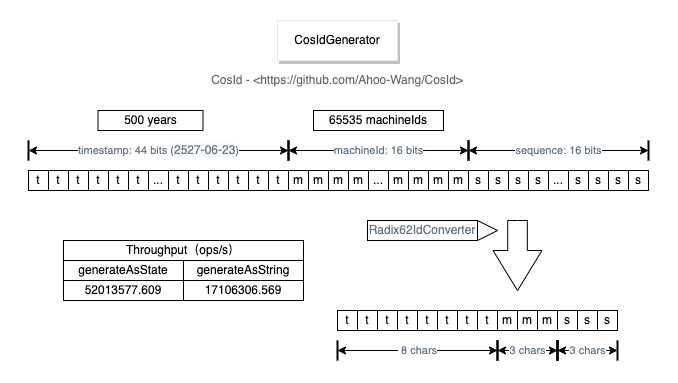
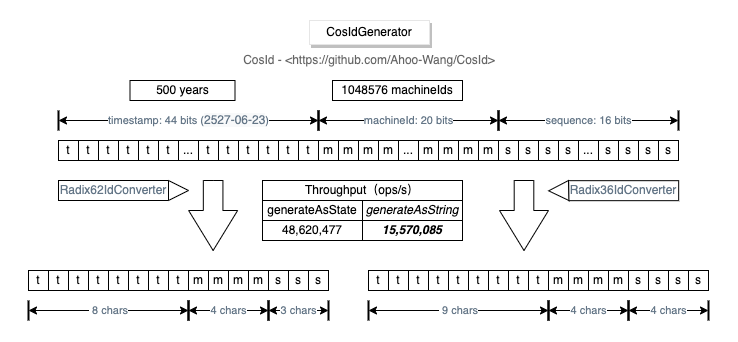
add `Radix36CosIdGenerator`

diff --git a/cosid-core/src/main/java/me/ahoo/cosid/cosid/RadixCosIdGenerator.java b/cosid-core/src/main/java/me/ahoo/cosid/cosid/RadixCosIdGenerator.java
@@ -1,0 +1,108 @@
+/*
+ * Copyright [2021-present] [ahoo wang <ahoowang@qq.com> (https://github.com/Ahoo-Wang)].
+ * Licensed under the Apache License, Version 2.0 (the "License");
+ * you may not use this file except in compliance with the License.
+ * You may obtain a copy of the License at
+ *      http://www.apache.org/licenses/LICENSE-2.0
+ * Unless required by applicable law or agreed to in writing, software
+ * distributed under the License is distributed on an "AS IS" BASIS,
+ * WITHOUT WARRANTIES OR CONDITIONS OF ANY KIND, either express or implied.
+ * See the License for the specific language governing permissions and
+ * limitations under the License.
+ */
+
+package me.ahoo.cosid.cosid;
+
+import me.ahoo.cosid.snowflake.exception.ClockBackwardsException;
+import me.ahoo.cosid.snowflake.exception.TimestampOverflowException;
+
+import com.google.common.annotations.Beta;
+import com.google.common.base.Strings;
+
+@Beta
+public class RadixCosIdGenerator implements CosIdGenerator {
+    public static final int DEFAULT_TIMESTAMP_BIT = 44;
+    public static final int DEFAULT_MACHINE_BIT = 20;
+    public static final int DEFAULT_SEQUENCE_BIT = 16;
+    public static final int DEFAULT_SEQUENCE_RESET_THRESHOLD = ~(-1 << (DEFAULT_SEQUENCE_BIT - 1));
+    
+    private final long maxTimestamp;
+    private final int maxMachine;
+    private final int maxSequence;
+    private final int sequenceResetThreshold;
+    
+    private final int machineId;
+    private int sequence = 0;
+    private long lastTimestamp = -1L;
+    
+    private final CosIdIdStateParser stateParser;
+    
+    public RadixCosIdGenerator(int timestampBit,
+                               int machineIdBit,
+                               int sequenceBit,
+                               int machineId,
+                               int sequenceResetThreshold,
+                               CosIdIdStateParser stateParser) {
+        this.maxTimestamp = ~(-1L << timestampBit);
+        this.maxMachine = ~(-1 << machineIdBit);
+        this.maxSequence = ~(-1 << sequenceBit);
+        this.sequenceResetThreshold = sequenceResetThreshold;
+        if (machineId > this.maxMachine || machineId < 0) {
+            throw new IllegalArgumentException(Strings.lenientFormat("machineId can't be greater than maxMachine[%s] or less than 0 .", maxMachine));
+        }
+        this.machineId = machineId;
+        this.stateParser = stateParser;
+    }
+    
+    @Override
+    public long getLastTimestamp() {
+        return lastTimestamp;
+    }
+    
+    @Override
+    public CosIdIdStateParser getStateParser() {
+        return stateParser;
+    }
+    
+    private long nextTime() {
+        long time = System.currentTimeMillis();
+        while (time <= lastTimestamp) {
+            time = System.currentTimeMillis();
+        }
+        return time;
+    }
+    
+    public synchronized CosIdState generateAsState() {
+        long currentTimestamp = System.currentTimeMillis();
+        if (currentTimestamp < lastTimestamp) {
+            throw new ClockBackwardsException(lastTimestamp, currentTimestamp);
+        }
+        
+        //region Reset sequence based on sequence reset threshold,Optimize the problem of uneven sharding.
+        
+        if (currentTimestamp > lastTimestamp
+            && sequence >= sequenceResetThreshold) {
+            sequence = 0;
+        }
+        
+        sequence = (sequence + 1) & maxSequence;
+        
+        if (sequence == 0) {
+            currentTimestamp = nextTime();
+        }
+        
+        //endregion
+        
+        if (currentTimestamp > maxTimestamp) {
+            throw new TimestampOverflowException(0, currentTimestamp, maxTimestamp);
+        }
+        lastTimestamp = currentTimestamp;
+        return new CosIdState(lastTimestamp, machineId, sequence);
+    }
+    
+    @Override
+    public String generateAsString() {
+        CosIdState state = generateAsState();
+        return stateParser.asString(state);
+    }
+}

diff --git a/cosid-core/src/test/java/me/ahoo/cosid/cosid/Radix36CosIdGeneratorTest.java b/cosid-core/src/test/java/me/ahoo/cosid/cosid/Radix36CosIdGeneratorTest.java
@@ -13,8 +13,11 @@
 
 package me.ahoo.cosid.cosid;
 
-import static me.ahoo.cosid.cosid.Radix62CosIdGenerator.*;
-import static org.hamcrest.MatcherAssert.assertThat;
+import static me.ahoo.cosid.cosid.Radix36CosIdGenerator.DEFAULT_MACHINE_BIT;
+import static me.ahoo.cosid.cosid.Radix36CosIdGenerator.DEFAULT_SEQUENCE_BIT;
+import static me.ahoo.cosid.cosid.Radix36CosIdGenerator.DEFAULT_TIMESTAMP_BIT;
+import static org.junit.jupiter.api.Assertions.*;
+import static org.hamcrest.MatcherAssert.*;
 import static org.hamcrest.Matchers.*;
 
 import me.ahoo.cosid.test.ConcurrentGenerateStingSpec;
@@ -25,30 +28,30 @@ import org.junit.jupiter.api.Test;
 import java.time.Duration;
 import java.util.concurrent.locks.LockSupport;
 
-class Radix62CosIdGeneratorTest {
-    private final Radix62CosIdGenerator radix62CosIdGenerator = new Radix62CosIdGenerator(1);
+class Radix36CosIdGeneratorTest {
+    private final Radix36CosIdGenerator radix36CosIdGenerator = new Radix36CosIdGenerator(1);
     
     @Test
     void generateAsString() {
-        String id1 = radix62CosIdGenerator.generateAsString();
-        String id2 = radix62CosIdGenerator.generateAsString();
-        assertThat(id1.length(), equalTo(15));
+        String id1 = radix36CosIdGenerator.generateAsString();
+        String id2 = radix36CosIdGenerator.generateAsString();
+        assertThat(id1.length(), equalTo(17));
         assertThat(id2, greaterThan(id1));
         assertThat(id2.length(), equalTo(id1.length()));
-        assertThat(radix62CosIdGenerator.getLastTimestamp(), greaterThan(0L));
+        assertThat(radix36CosIdGenerator.getLastTimestamp(), greaterThan(0L));
     }
     
     @Test
     void generateAsState() {
-        CosIdState state1 = radix62CosIdGenerator.generateAsState();
-        CosIdState state2 = radix62CosIdGenerator.generateAsState();
+        CosIdState state1 = radix36CosIdGenerator.generateAsState();
+        CosIdState state2 = radix36CosIdGenerator.generateAsState();
         assertThat(state2, greaterThan(state1));
     }
     
     @Test
     void customizeOverflowMachineId() {
         Assertions.assertThrows(IllegalArgumentException.class, () -> {
-            new Radix62CosIdGenerator(65536);
+            new Radix36CosIdGenerator(65536);
         });
     }
     
@@ -70,6 +73,6 @@ class Radix62CosIdGeneratorTest {
     
     @Test
     public void generateWhenConcurrentString() {
-        new ConcurrentGenerateStingSpec(new Radix62CosIdGenerator(1)).verify();
+        new ConcurrentGenerateStingSpec(new Radix36CosIdGenerator(1)).verify();
     }
 }

diff --git a/cosid-spring-boot-starter/src/main/java/me/ahoo/cosid/spring/boot/starter/cosid/CosIdGeneratorAutoConfiguration.java b/cosid-spring-boot-starter/src/main/java/me/ahoo/cosid/spring/boot/starter/cosid/CosIdGeneratorAutoConfiguration.java
@@ -16,6 +16,7 @@ package me.ahoo.cosid.spring.boot.starter.cosid;
 import me.ahoo.cosid.CosId;
 import me.ahoo.cosid.cosid.ClockSyncCosIdGenerator;
 import me.ahoo.cosid.cosid.CosIdGenerator;
+import me.ahoo.cosid.cosid.Radix36CosIdGenerator;
 import me.ahoo.cosid.cosid.Radix62CosIdGenerator;
 import me.ahoo.cosid.machine.ClockBackwardsSynchronizer;
 import me.ahoo.cosid.machine.MachineId;
@@ -47,15 +48,31 @@ public class CosIdGeneratorAutoConfiguration {
         this.cosIdGeneratorProperties = cosIdGeneratorProperties;
     }
     
+    @SuppressWarnings("checkstyle:MissingSwitchDefault")
     @Bean
     @Primary
     @ConditionalOnMissingBean
     public CosIdGenerator cosIdGenerator(final MachineId machineId, IdGeneratorProvider idGeneratorProvider,
                                          ClockBackwardsSynchronizer clockBackwardsSynchronizer) {
-        Radix62CosIdGenerator cosIdGenerator =
-            new Radix62CosIdGenerator(cosIdGeneratorProperties.getTimestampBit(),
-                machineProperties.getMachineBit(), cosIdGeneratorProperties.getSequenceBit(), (int) machineId.getMachineId(),
-                cosIdGeneratorProperties.getSequenceResetThreshold());
+        CosIdGenerator cosIdGenerator;
+        switch (cosIdGeneratorProperties.getType()) {
+            case RADIX62: {
+                cosIdGenerator =
+                    new Radix62CosIdGenerator(cosIdGeneratorProperties.getTimestampBit(),
+                        machineProperties.getMachineBit(), cosIdGeneratorProperties.getSequenceBit(), (int) machineId.getMachineId(),
+                        cosIdGeneratorProperties.getSequenceResetThreshold());
+                break;
+            }
+            case RADIX36: {
+                cosIdGenerator =
+                    new Radix36CosIdGenerator(cosIdGeneratorProperties.getTimestampBit(),
+                        machineProperties.getMachineBit(), cosIdGeneratorProperties.getSequenceBit(), (int) machineId.getMachineId(),
+                        cosIdGeneratorProperties.getSequenceResetThreshold());
+                break;
+            }
+            default:
+                throw new IllegalStateException("Unexpected value: " + cosIdGeneratorProperties.getType());
+        }
         
         CosIdGenerator clockSyncCosIdGenerator = new ClockSyncCosIdGenerator(cosIdGenerator, clockBackwardsSynchronizer);
         idGeneratorProvider.set(CosId.COSID, clockSyncCosIdGenerator);

diff --git a/cosid-core/src/jmh/java/me/ahoo/cosid/CosIdGeneratorBenchmark.java b/cosid-core/src/jmh/java/me/ahoo/cosid/CosIdGeneratorBenchmark.java
@@ -13,9 +13,12 @@
 
 package me.ahoo.cosid;
 
+import static me.ahoo.cosid.cosid.Radix62CosIdGenerator.*;
+
 import me.ahoo.cosid.converter.Radix62IdConverter;
 import me.ahoo.cosid.cosid.ClockSyncCosIdGenerator;
 import me.ahoo.cosid.cosid.CosIdGenerator;
+import me.ahoo.cosid.cosid.Radix36CosIdGenerator;
 import me.ahoo.cosid.jvm.AtomicLongGenerator;
 import me.ahoo.cosid.cosid.Radix62CosIdGenerator;
 import me.ahoo.cosid.cosid.CosIdState;
@@ -36,6 +39,8 @@ import java.util.UUID;
 public class CosIdGeneratorBenchmark {
     AtomicLongGenerator atomicLongGenerator;
     CosIdGenerator radix62CosIdGenerator;
+    CosIdGenerator radix36CosIdGenerator;
+    CosIdGenerator customizeRadix62CosIdGenerator;
     
     /**
      * Initialize IdGenerator.
@@ -44,6 +49,11 @@ public class CosIdGeneratorBenchmark {
     public void setup() {
         atomicLongGenerator = new AtomicLongGenerator();
         radix62CosIdGenerator = new ClockSyncCosIdGenerator(new Radix62CosIdGenerator(1));
+        radix36CosIdGenerator = new ClockSyncCosIdGenerator(new Radix36CosIdGenerator(1));
+        final int customizeSequenceBit = 18;
+        final int customizeSequenceResetThreshold = ~(-1 << (customizeSequenceBit - 1));
+        customizeRadix62CosIdGenerator =
+            new ClockSyncCosIdGenerator(new Radix62CosIdGenerator(DEFAULT_TIMESTAMP_BIT, DEFAULT_MACHINE_BIT, customizeSequenceBit, 1, customizeSequenceResetThreshold));
     }
     
     @Benchmark
@@ -62,13 +72,27 @@ public class CosIdGeneratorBenchmark {
     }
     
     @Benchmark
-    public String cosIdGenerator_generateAsString() {
+    public String cosIdGenerator62_generateAsString() {
         return radix62CosIdGenerator.generateAsString();
     }
     
     @Benchmark
-    public CosIdState cosIdGenerator_generateAsState() {
+    public CosIdState cosIdGenerator62_generateAsState() {
         return radix62CosIdGenerator.generateAsState();
     }
     
+    @Benchmark
+    public String cosIdGenerator36_generateAsString() {
+        return radix36CosIdGenerator.generateAsString();
+    }
+    
+    @Benchmark
+    public String cosIdGeneratorCustomize62_generateAsString() {
+        return customizeRadix62CosIdGenerator.generateAsString();
+    }
+    
+    @Benchmark
+    public CosIdState cosIdGeneratorCustomize62_generateAsState() {
+        return customizeRadix62CosIdGenerator.generateAsState();
+    }
 }

diff --git a/cosid-spring-boot-starter/src/main/java/me/ahoo/cosid/spring/boot/starter/cosid/CosIdGeneratorProperties.java b/cosid-spring-boot-starter/src/main/java/me/ahoo/cosid/spring/boot/starter/cosid/CosIdGeneratorProperties.java
@@ -14,7 +14,7 @@
 package me.ahoo.cosid.spring.boot.starter.cosid;
 
 import me.ahoo.cosid.CosId;
-import me.ahoo.cosid.cosid.Radix62CosIdGenerator;
+import me.ahoo.cosid.cosid.RadixCosIdGenerator;
 
 import org.springframework.boot.context.properties.ConfigurationProperties;
 
@@ -22,10 +22,10 @@ import org.springframework.boot.context.properties.ConfigurationProperties;
 public class CosIdGeneratorProperties {
     public static final String PREFIX = CosId.COSID_PREFIX + "generator";
     private boolean enabled = false;
-    
-    private int timestampBit = Radix62CosIdGenerator.DEFAULT_TIMESTAMP_BIT;
-    private int sequenceBit = Radix62CosIdGenerator.DEFAULT_SEQUENCE_BIT;
-    private int sequenceResetThreshold = Radix62CosIdGenerator.DEFAULT_SEQUENCE_RESET_THRESHOLD;
+    private Type type = Type.RADIX62;
+    private int timestampBit = RadixCosIdGenerator.DEFAULT_TIMESTAMP_BIT;
+    private int sequenceBit = RadixCosIdGenerator.DEFAULT_SEQUENCE_BIT;
+    private int sequenceResetThreshold = RadixCosIdGenerator.DEFAULT_SEQUENCE_RESET_THRESHOLD;
     
     public boolean isEnabled() {
         return enabled;
@@ -57,5 +57,18 @@ public class CosIdGeneratorProperties {
     
     public void setSequenceResetThreshold(int sequenceResetThreshold) {
         this.sequenceResetThreshold = sequenceResetThreshold;
+    }
+    
+    public Type getType() {
+        return type;
+    }
+    
+    public void setType(Type type) {
+        this.type = type;
+    }
+    
+    public enum Type {
+        RADIX62,
+        RADIX36
     }
 }

diff --git a/cosid-core/src/main/java/me/ahoo/cosid/cosid/RadixCosIdStateParser.java b/cosid-core/src/main/java/me/ahoo/cosid/cosid/RadixCosIdStateParser.java
@@ -13,11 +13,13 @@
 
 package me.ahoo.cosid.cosid;
 
+import me.ahoo.cosid.converter.Radix36IdConverter;
 import me.ahoo.cosid.converter.Radix62IdConverter;
 import me.ahoo.cosid.converter.RadixIdConverter;
 
 public class RadixCosIdStateParser implements CosIdIdStateParser {
     public static final RadixCosIdStateParser DEFAULT = ofRadix62(Radix62CosIdGenerator.DEFAULT_TIMESTAMP_BIT, Radix62CosIdGenerator.DEFAULT_MACHINE_BIT, Radix62CosIdGenerator.DEFAULT_SEQUENCE_BIT);
+    
     private final RadixIdConverter timestampConvert;
     private final RadixIdConverter machineConvert;
     private final RadixIdConverter sequenceConvert;
@@ -56,4 +58,17 @@ public class RadixCosIdStateParser implements CosIdIdStateParser {
             new Radix62IdConverter(true, sequenceMaxCharSize)
         );
     }
+    
+    static RadixCosIdStateParser ofRadix36(int timestampBits, int machineIdBits, int sequenceBits) {
+        final int radix = 36;
+        final int timestampMaxCharSize = RadixIdConverter.maxCharSize(radix, timestampBits);
+        final int machineIdMaxCharSize = RadixIdConverter.maxCharSize(radix, machineIdBits);
+        final int sequenceMaxCharSize = RadixIdConverter.maxCharSize(radix, sequenceBits);
+        return new RadixCosIdStateParser(
+            new Radix36IdConverter(true, timestampMaxCharSize),
+            new Radix36IdConverter(true, machineIdMaxCharSize),
+            new Radix36IdConverter(true, sequenceMaxCharSize)
+        );
+    }
+
 }

diff --git a/cosid-core/src/main/java/me/ahoo/cosid/cosid/Radix36CosIdGenerator.java b/cosid-core/src/main/java/me/ahoo/cosid/cosid/Radix36CosIdGenerator.java
@@ -14,16 +14,16 @@
 package me.ahoo.cosid.cosid;
 
 /**
- * [timestamp(44)]-[machineId-(20)]-[sequence-(16)] = 80 BITS = 15 CHARS.
+ * [timestamp(44)]-[machineId-(20)]-[sequence-(16)] = 80 BITS = 17 CHARS.
  */
-public class Radix62CosIdGenerator extends RadixCosIdGenerator {
-    
-    public Radix62CosIdGenerator(int machineId) {
+public class Radix36CosIdGenerator extends RadixCosIdGenerator {
+
+    public Radix36CosIdGenerator(int machineId) {
         this(DEFAULT_TIMESTAMP_BIT, DEFAULT_MACHINE_BIT, DEFAULT_SEQUENCE_BIT, machineId, DEFAULT_SEQUENCE_RESET_THRESHOLD);
     }
     
-    public Radix62CosIdGenerator(int timestampBit, int machineIdBit, int sequenceBit, int machineId, int sequenceResetThreshold) {
-        super(timestampBit, machineIdBit, sequenceBit, machineId, sequenceResetThreshold, RadixCosIdStateParser.ofRadix62(timestampBit, machineIdBit, sequenceBit));
+    public Radix36CosIdGenerator(int timestampBit, int machineIdBit, int sequenceBit, int machineId, int sequenceResetThreshold) {
+        super(timestampBit, machineIdBit, sequenceBit, machineId, sequenceResetThreshold, RadixCosIdStateParser.ofRadix36(timestampBit, machineIdBit, sequenceBit));
     }
     
 }

diff --git a/cosid-core/src/test/java/me/ahoo/cosid/converter/RadixIdConverterTest.java b/cosid-core/src/test/java/me/ahoo/cosid/converter/RadixIdConverterTest.java
@@ -39,10 +39,15 @@ class RadixIdConverterTest {
     @ParameterizedTest
     @CsvSource({
         "62,16,3",
+        "62,18,4",
+        "62,20,4",
+        "62,23,4",
         "62,40,7",
         "62,44,8",
         "62,48,9",
         "36,16,4",
+        "36,20,4",
+        "36,21,5",
         "36,40,8",
         "36,44,9",
         "36,48,10",
